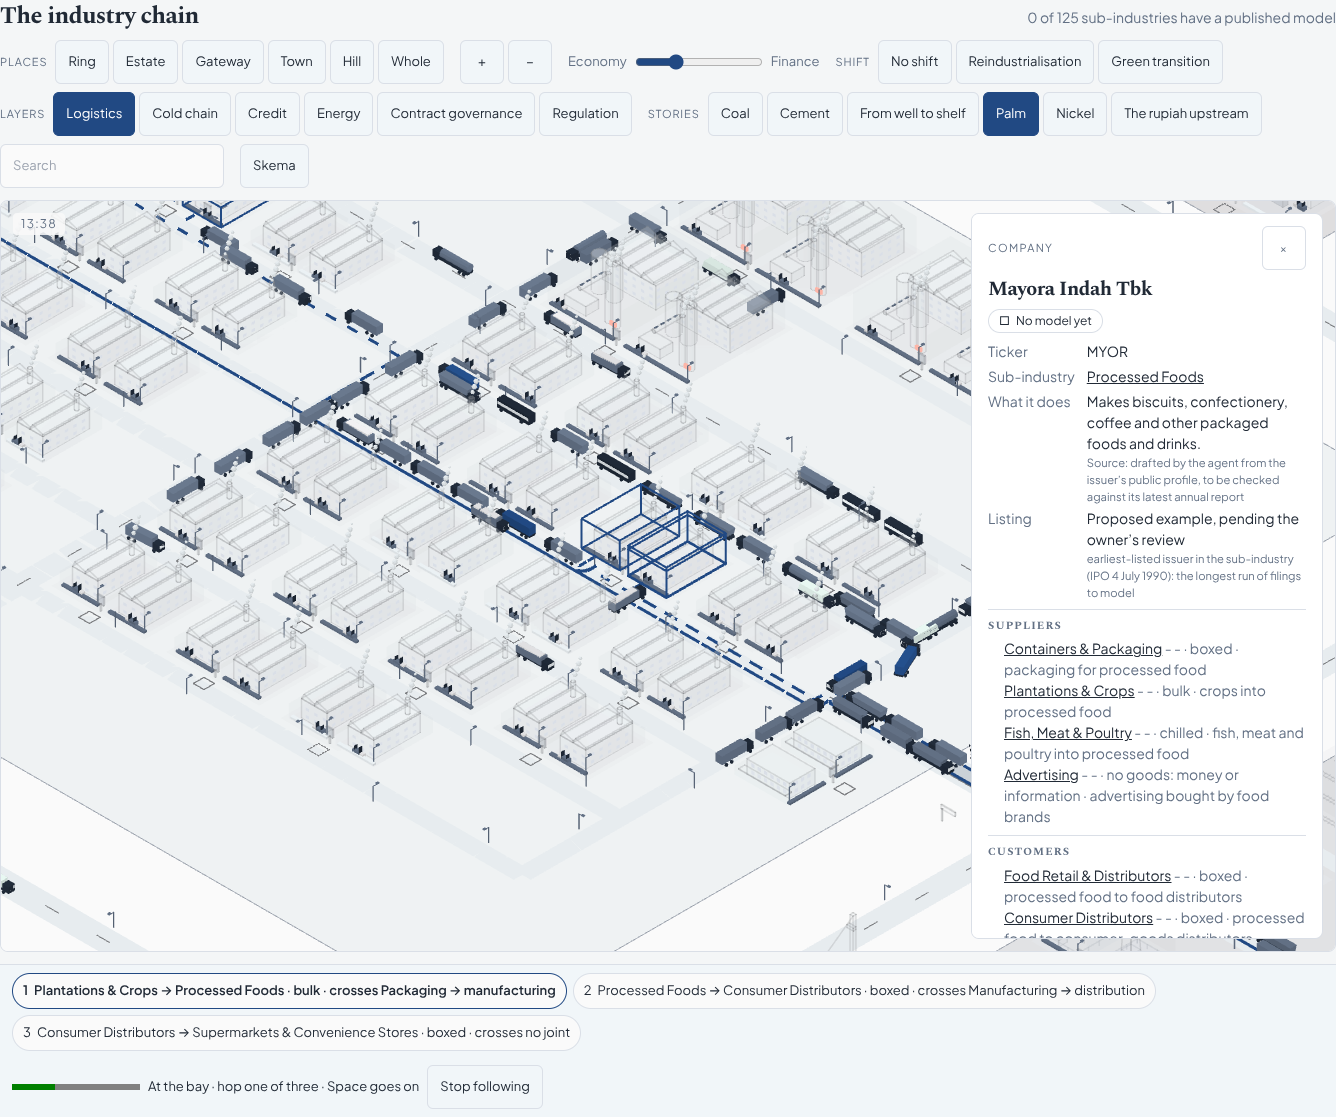
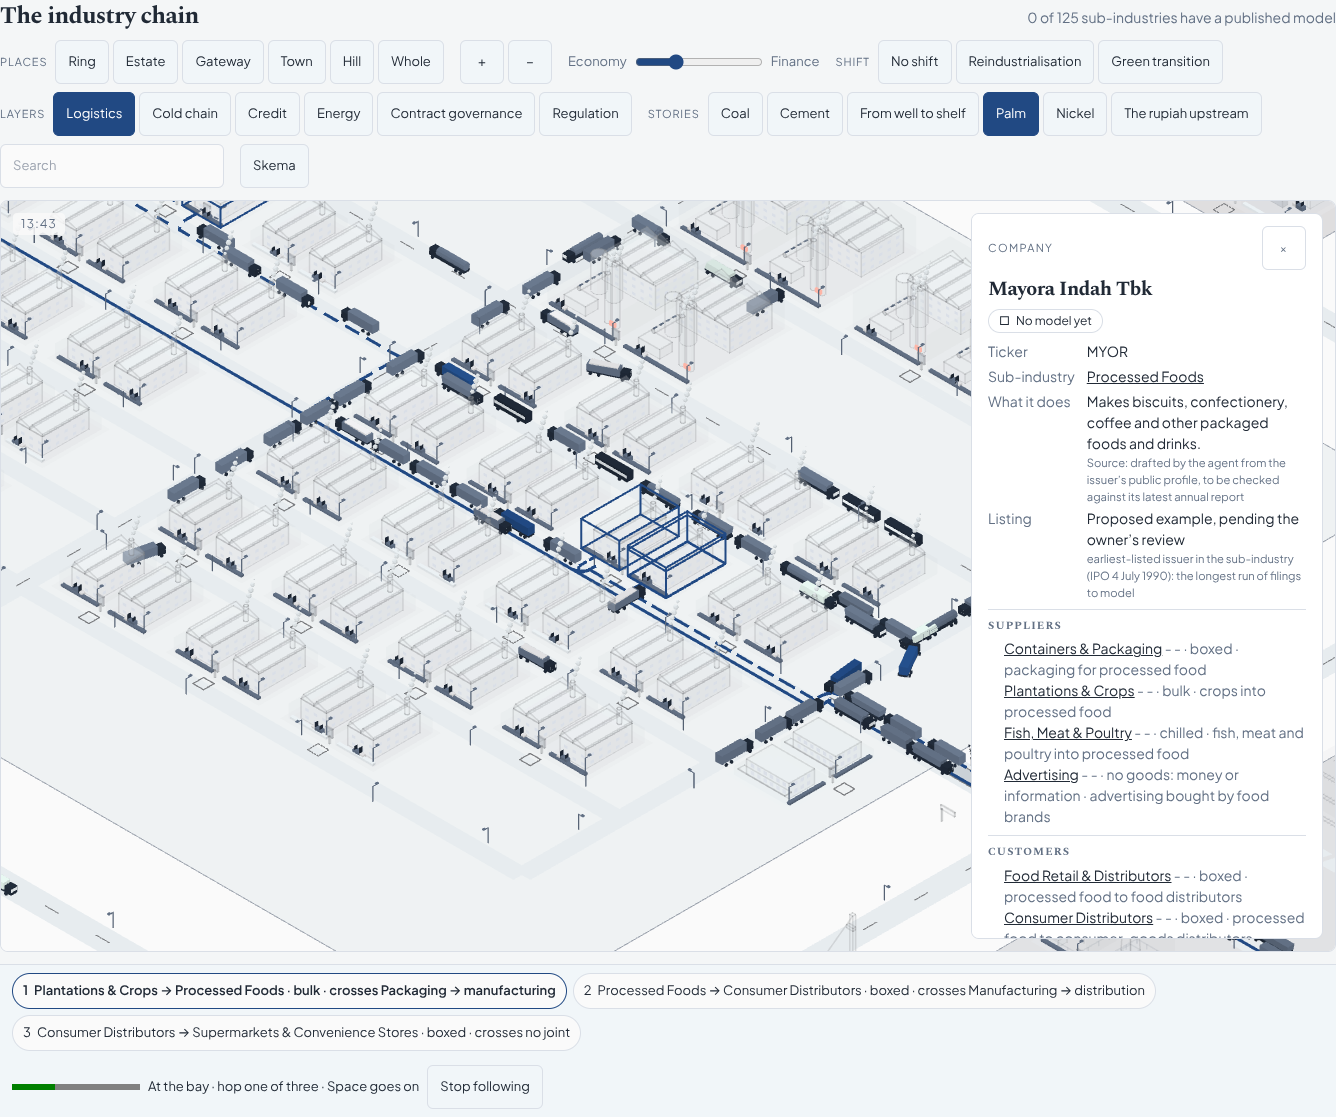
world-v2(D7): gate D's frames again with every lot pair's route; the note's counts and chunks
Claude-Session: https://claude.ai/code/session_0185fFYes7XSmWtNnUpAhAsh

diff --git a/docs/world/v2/gates/gate-d.md b/docs/world/v2/gates/gate-d.md
@@ -52,7 +52,7 @@ and the two new links add two flows; the hero's reading is up.
 
 ```
 $ TZ=America/Chicago npx vitest run --reporter=json --outputFile=vitest.json && node scripts/assert-test-count.mjs vitest.json
-assert-test-count: 1148 tests, 0 failed, 0 failed suite(s) (floor 1144)    # before: 1133; floor was 1129
+assert-test-count: 1151 tests, 0 failed, 0 failed suite(s) (floor 1147)    # before: 1133; floor was 1129
 $ npx eslint . --max-warnings=35
 ✖ 22 problems (0 errors, 22 warnings)
 $ npm run check:world
@@ -64,11 +64,11 @@ $ npm run test:e2e:world
 13 passed                    # 11 before; new: a story lit end to end, Follow ridden to the end
 ```
 
-New unit tests (15): the chain on the roads (one level with travelling dashes, outlines, the rest dimmed, no label;
-a hovered route's note; a vehicle's own route and its two lots; a measured link's long dashes and the full chain
+New unit tests (18): the chain on the roads (one level with travelling dashes, outlines, the rest dimmed, no label;
+every supplier lot to every customer lot, as the vehicles drive them; redrawn when a class arrives; a hovered route's note; a vehicle's own route and its two lots; a measured link's long dashes and the full chain
 framed at the district band); the six stories resolve to placed codes and links, and a bad story is refused (a hop
 that is no link, goods not the link's, a figure, an unplaced code); the six stories lit end to end, the rupiah
-upstream with the banks and a measured hop, a selection's chain over a story; Follow (a story ridden end to end in
+upstream with the banks and a measured hop, a story redrawn when a class arrives, a selection's chain over a story; Follow (a story ridden end to end in
 60–90 s with the lot's card at each bay; a glided hop and the clock's own pace; Space, Escape, the arrows and
 follow(null); F and the card's Follow; a vehicle ridden home); the governance and regulation pulses; search by
 story and by load, and the engine's vehicle for a load.
@@ -88,8 +88,8 @@ $ node scripts/world/assert-world-flag.mjs
 assert-world-flag: no world code in dist/ (flag off).
 ```
 
-Flag-on chunks (bytes, gzip −9), C → D: `world-scene` 126,835 / 48,502 → 139,810 / 53,755 (budget 120 kB gzipped);
-`WorldFrame` 266,501 / 44,118 → 272,312 / 45,646.
+Flag-on chunks (bytes, gzip −9), C → D: `world-scene` 126,835 / 48,502 → 140,132 / 53,885 (budget 120 kB gzipped);
+`WorldFrame` 266,501 / 44,118 → 272,397 / 45,665.
 
 ## 3. Frames
 
@@ -123,8 +123,8 @@ Every hop is a link of the register; the goods are the link's (an upstream story
 
 ### 4.2 Made by the agent
 
-1. **Routes from the flows' road graph**: a link's routes run from each supplier lot to a customer lot in turn (the
-   flows' own pairing), along the lanes the vehicles drive; a link that moves nothing (electricity, a service) is
+1. **Routes from the flows' road graph**: a link's routes run from every supplier lot to every customer lot (the
+   pairs its vehicles drive), along their lanes; a link that moves nothing (electricity, a service) is
    drawn on the same roads.
 2. **Two dash patterns** in the live tone, long for a measured link and short for an expected one, travelling at
    9 m/s of the frame's clock towards the customer (against the goods in an upstream story), paused with the world.
@@ -139,7 +139,10 @@ Every hop is a link of the register; the goods are the link's (an upstream story
    most of a minute). The camera rides at 3 px/m.
 6. **S** lights the stories in turn, then none. The strip names the joints a hop's routes cross (the gates' joints)
    and says the hop's place in words.
-7. **Search**: a load is a link whose goods move in vehicles; its result selects a vehicle on the road, else sends
+7. **Review fixes** (Codex, on the pull request): a link's routes are every supplier lot to every customer lot, as
+   the vehicles drive them (they were one pair per supplier lot); flow classes that arrive after something is lit
+   redraw it, a story's hops included.
+8. **Search**: a load is a link whose goods move in vehicles; its result selects a vehicle on the road, else sends
    one. **Pulses**: one every 120 m of every link's first route, built when the layer is first shown.
 
 ### 4.3 Needed from the owner
